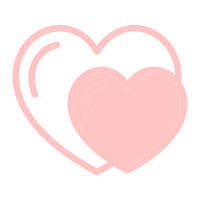
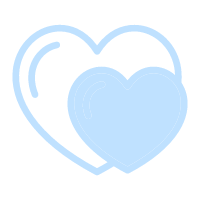
改个颜色

diff --git a/src/components/PlanetTopic.vue b/src/components/PlanetTopic.vue
@@ -31,7 +31,7 @@
                         <div>{{item.likes}}</div>
                   </div>
                   <div class="commentCount">
-                        <img src="../assets/comment2.png" alt="">
+                        <img src="../assets/comment.png" alt="">
                         <div>{{item.many}}</div>
                   </div>
               </div>
@@ -55,8 +55,8 @@ export default {
 
             ],
 
-            likeImg:require("../assets/like.png"),
-            likedImg:require("../assets/liked.png"),
+            likeImg:require("../assets/BeforeLike.png"),
+            likedImg:require("../assets/AfterLike.png"),
             girlImg:require("../assets/girl.png"),
             boyImg:require("../assets/boy.png"),
             
@@ -147,7 +147,7 @@ export default {
                 this.$refs.background.style.backgroundImage = `${this.topic.bgPic}` 
             }
             else{
-                this.$refs.background.style.backgroundImage = "linear-gradient(to bottom right,#ffd9d9,#FDFFC4)";
+                this.$refs.background.style.backgroundImage = "linear-gradient(to bottom right,#FEFEFE,#CDF8FF)";
             }
             this.$axios.get(`star/showStar?uuid=${localStorage.planetUid}`).then(res=>{
                 // console.log(res)
@@ -325,12 +325,17 @@ export default {
         width:15px;
         height: 15px;
     }
+    .commentCount img{
+        width:17px;
+        height: 17px;
+    }
     .likeCount{
         margin-left: 243px;
         margin-right:4px;
     }
     .likeCount,.commentCount{
         margin-top: 3px;
+        vertical-align: super;
     }
 
 
@@ -342,7 +347,7 @@ export default {
         bottom: 35px;
         right: 45px;
         border-radius: 100%;
-        background: #FFCBCB;
+        background: #BFE1FF;
         color: white;
         font-size: 50px;
         font-weight: 100;

diff --git a/src/components/PlanetComment.vue b/src/components/PlanetComment.vue
@@ -23,7 +23,7 @@
       </div>
       <div class="function-area">
           <div class="likeCount" @click="like(user,$event)">
-                <img :src="user.likeOrNot?likedImg:likeImg" alt="">
+                <img :src="user.likeOrNot?likedImg:likeImg" alt="" width="30" height="26">
                 <div>{{user.likes}}</div>
           </div>
       </div>
@@ -32,7 +32,7 @@
       <div class="comment-top">
         <div class="top-name">评论</div>
         <div class="comment-count">
-          <img src="../assets/comment2.png" alt="">
+          <img src="../assets/comment.png" alt="">
           <div>{{commentCount}}</div>
         </div>
       </div>
@@ -85,8 +85,8 @@ export default {
 
       input:"",//发表内容
 
-      likeImg:require("../assets/like.png"),
-      likedImg:require("../assets/liked.png"),
+      likeImg:require("../assets/BeforeLike.png"),
+      likedImg:require("../assets/AfterLike.png"),
       girlImg:require("../assets/girl.png"),
       boyImg:require("../assets/boy.png"),
 
@@ -248,7 +248,7 @@ export default {
       height: 27px;
       border-radius: 100%;
       position: absolute;
-      background: #FFCBCB no-repeat;
+      background: #BFE1FF no-repeat;
       box-shadow: rgba(0,0,0,0.16) 0 3px 6px;
       left: -13px;
       top: -13px;
@@ -375,6 +375,10 @@ export default {
       right:27px;
       margin:0 !important;
     }
+    .comment-count img{
+      width:15px;
+      width:15px;
+    }
     .comment-count div{
       font-size: 12px;
       transform: scale(0.9);
@@ -478,6 +482,6 @@ export default {
       text-align: center;
       font-size: 12px;
       margin-left: 7px;
-      background: linear-gradient(to right bottom,#FD9BBF,#FDE8B7)
+      background: linear-gradient(to right bottom,#9BC5FD,#FAB7FD)
     }
 </style>

diff --git a/src/components/planet.vue b/src/components/planet.vue
@@ -250,7 +250,7 @@ export default {
                         // console.log(item.bgPic)
                     }
                     else{
-                        item.bgPic = "linear-gradient(to bottom right,#ffd9d9,#FDFFC4)";
+                        item.bgPic = "linear-gradient(to bottom right,#FEFEFE,#CDF8FF)";
                     }
                     // console.log(item.bgPic)
                     if(index % 2 == 0){
@@ -374,7 +374,7 @@ export default {
         height:95vh;
         position: fixed;
         z-index:-100;
-        background:#ffc4c4;
+        background:#BFE1FF;
     }
 
 

diff --git a/src/components/wishRelease.vue b/src/components/wishRelease.vue
@@ -347,7 +347,7 @@ export default {
         position: absolute;
         top:3px;
         margin-left:2px;
-        background: #FFC4C4;
+        background: #9BC5FD;
         
     }
     .checked-box::after{
@@ -357,7 +357,7 @@ export default {
     }
     .anonymous-text{
         display: inline-block;
-        vertical-align: middle !important;
+        /* vertical-align: middle !important; */
     }
     .anonymous span{
         /* display: inline-block; */

diff --git a/src/components/PlanetRelease.vue b/src/components/PlanetRelease.vue
@@ -200,7 +200,7 @@ export default {
         border: none;
     }
     .van-uploader >>> .van-uploader__upload-icon{
-        color: #FFC4C4;
+        color: #9BC5FD;
     }
     .upload-prompt{
         display: inline-block;
